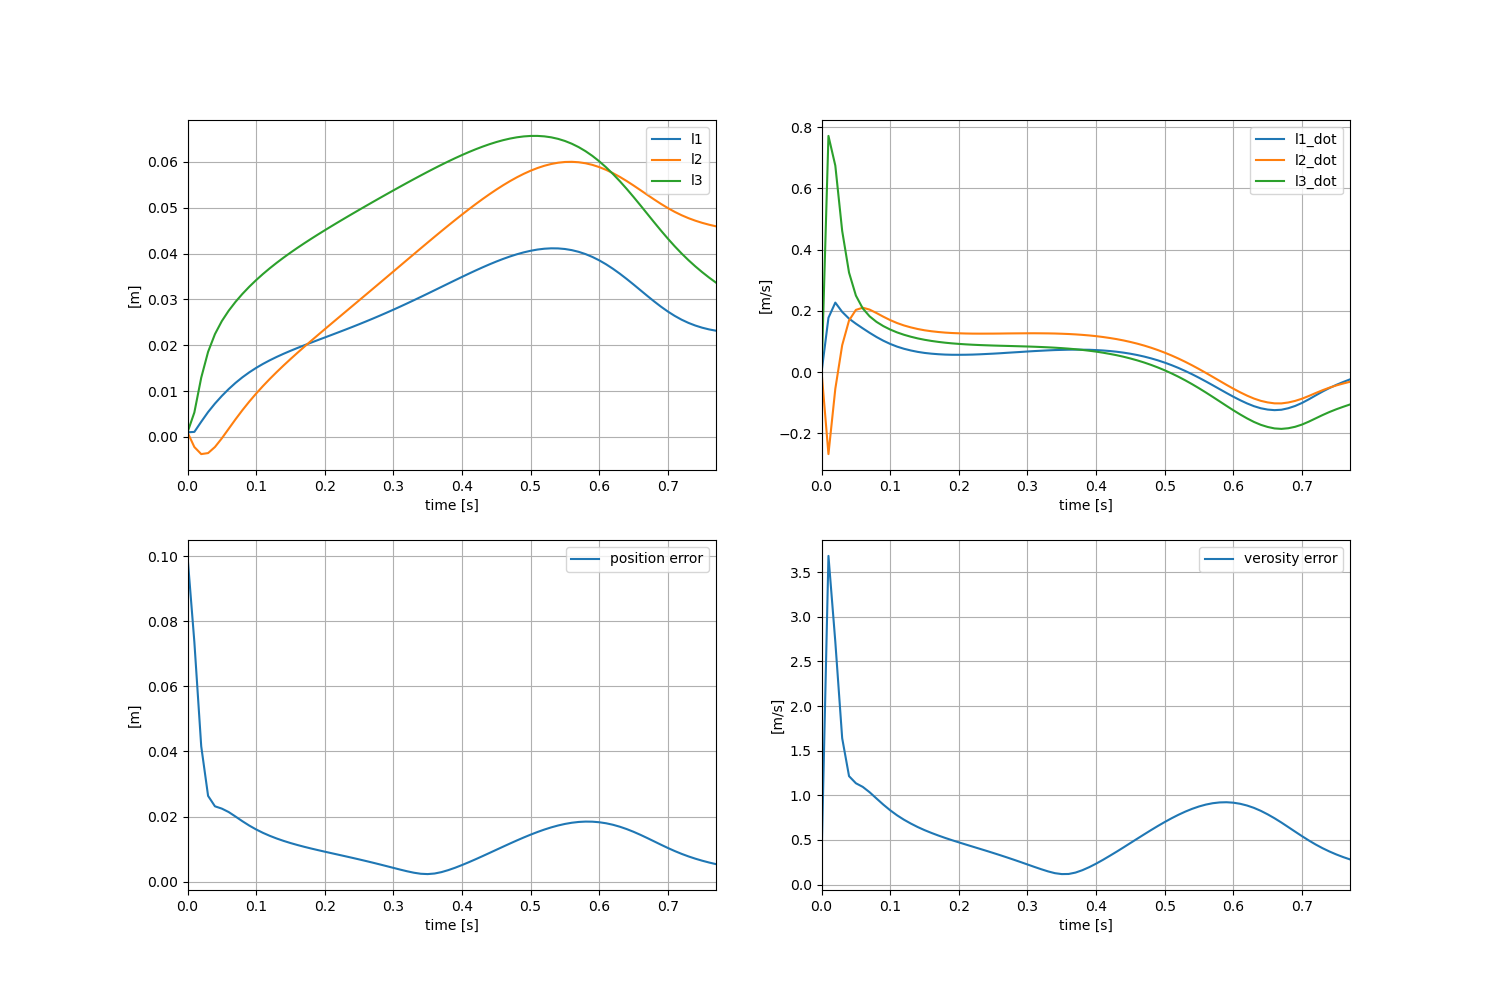
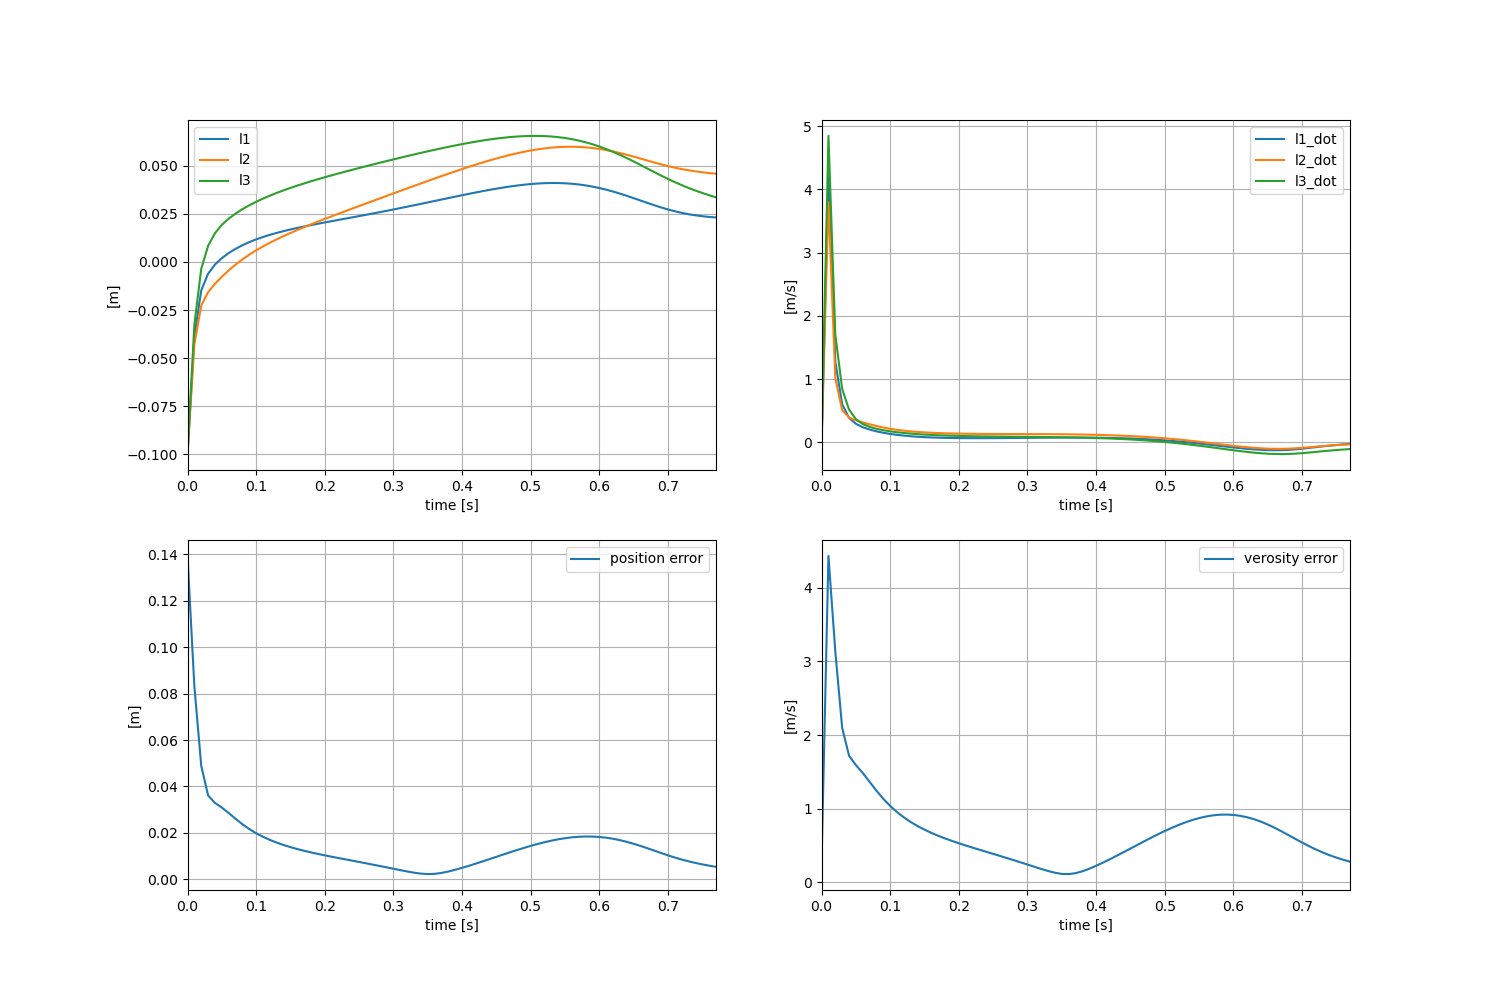
thoth

diff --git a/o/Dynamic_Control_of_Soft_Robotic_Arm_saigen/simulator.py b/o/Dynamic_Control_of_Soft_Robotic_Arm_saigen/simulator.py
@@ -63,15 +63,15 @@ class Simulator:
 
     def calc_q_dot_dot(self, q, q_dot, p, p_dot, J, J_dot, pd, pd_dot, pd_dot_dot):
         """アクチュエータ空間上の加速度を計算"""
-        print(np.linalg.det(J))  # これが発散?
+        #print(np.linalg.det(J))  # これが発散?
         #print("error = ", np.linalg.norm(p - pd))
         if np.linalg.det(J) < 1e-8:
             print("特異姿勢!")
-            return np.zeros((3, 1))
+            #return np.zeros((3, 1))
+            z = np.linalg.pinv(J) @ (pd_dot_dot - self.Kd*(p_dot - pd_dot) - self.Kp*(p - pd) - J_dot @ q_dot)
         else:
-            z = np.linalg.pinv(J) @ \
-                (pd_dot_dot - self.Kd*(p_dot - pd_dot) - self.Kp*(p - pd) - J_dot @ q_dot)
-        #print(z)
+            z = np.linalg.pinv(J) @ (pd_dot_dot - self.Kd*(p_dot - pd_dot) - self.Kp*(p - pd) - J_dot @ q_dot)
+        
         return z
 
 
@@ -106,7 +106,7 @@ class Simulator:
     def run_simulation(self,):
         """動力学なしで軌道追従をシミュレーション"""
         
-        q_init = np.array([[0.001, 0.001, 0.001]]).T
+        q_init = np.array([[-0.1, -0.1, -0.1]]).T
         dq_init = np.zeros((3, 1))
         
         state_init = np.concatenate([q_init, dq_init])
@@ -242,9 +242,9 @@ class Simulator:
         ax.set_zlabel('Z[m]')
 
         ## 三軸のスケールを揃える
-        ax.set_xlim(self.x_range)
-        ax.set_ylim(self.y_range)
-        ax.set_zlim(self.z_range)
+        # ax.set_xlim(self.x_range)
+        # ax.set_ylim(self.y_range)
+        # ax.set_zlim(self.z_range)
         ax.set_box_aspect((1,1,1))
         
         ps = self.kinematics.calc_all_task_ps(q)

diff --git a/o/Dynamic_Control_of_Soft_Robotic_Arm_saigen/example.py b/o/Dynamic_Control_of_Soft_Robotic_Arm_saigen/example.py
@@ -39,7 +39,7 @@ def pd_dot_dot(t):
 
 
 # hoge = Simulator(
-#     TIME_SPAN = 2,
+#     TIME_SPAN = 2*np.pi/3,
 #     TIME_INTERVAL = 0.01,
 #     pd = pd,
 #     pd_dot = pd_dot,
@@ -49,17 +49,43 @@ def pd_dot_dot(t):
 # hoge.run_simulation()
 # #hoge.plot_actuator_data()
 # hoge.plot_all()
-# #hoge.make_animation()
+# hoge.make_animation()
 
 
-# hoge2 = Simulator()
-# hoge2.plot_test(np.array([[0.01, 0, 0]]).T)
+hoge2 = Simulator()
+hoge2.plot_test(np.array([[0.011, 0.01, 0.01]]).T)
 
 
 
-wow = InverseKinematics()
+# wow = InverseKinematics()
 
-a, b, c = wow.calc_desired_actuator_state_all(
-    pd, pd_dot, pd_dot_dot, 1, 0.01
-)
-print(a)
+# a, b, c = wow.calc_desired_actuator_state_all(
+#     pd, pd_dot, pd_dot_dot, 1, 0.01
+# )
+
+
+# import matplotlib.pyplot as plt
+# t = np.arange(0, 1, 0.01)
+# fig = plt.figure()
+# ax = fig.add_subplot(1, 3, 1)
+# ax.plot(t, a[:, 0], label="l1_d")
+# ax.plot(t, a[:, 1], label="l2_d")
+# ax.plot(t, a[:, 2], label="l3_d")
+# ax.legend()
+# ax.grid()
+
+# ax1 = fig.add_subplot(1, 3, 2)
+# ax1.plot(t, b[:, 0], label="l1_dot_d")
+# ax1.plot(t, b[:, 1], label="l2_dot_d")
+# ax1.plot(t, b[:, 2], label="l3_dot_d")
+# ax1.legend()
+# ax1.grid()
+
+# ax2 = fig.add_subplot(1, 3, 3)
+# ax2.plot(t, c[:, 0], label="l1_dot_dot_d")
+# ax2.plot(t, c[:, 1], label="l2_dot_dot_d")
+# ax2.plot(t, c[:, 2], label="l3_dot_dot_d")
+# ax2.legend()
+# ax2.grid()
+
+# plt.show()
